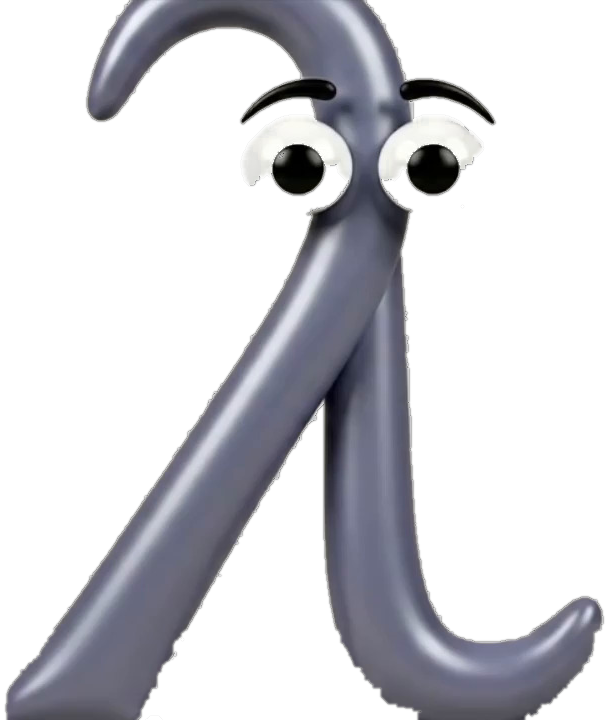
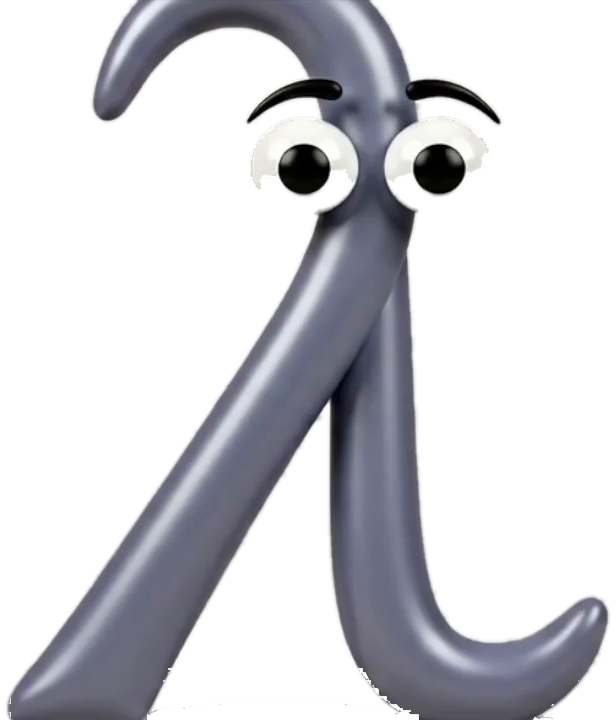
Keep the full lambda from the reference photo.
Version 0.1.5 uses the camera-resolution cutout, with only the beige wall removed, and clears the page to Basecamp's content color.

diff --git a/assistant/Main.qml b/assistant/Main.qml
@@ -3,12 +3,9 @@ import QtQuick.Controls 2.15
 import QtQuick.Layouts 1.15
 import QtQuick.Window 2.15
 
-// The photo is the character. Nothing is drawn behind it.
-// This view is a QQuickWidget inside the Basecamp dock, not a cocoa window.
-// FramelessWindowHint + NoDropShadowWindowHint + a clear color is what makes a
-// real NSWindow translucent. On this widget a clear color composites as black
-// (0.1.2) and Qt.Tool hid the child window. A solid clear is the full page, so
-// the page matches the shell (#171717) and the root item is not filled.
+// The photo is the character, at the camera's resolution. Nothing is drawn
+// behind it. A clear color on this QQuickWidget paints black, so the window
+// clear is Basecamp's content color and the root item is not filled.
 Item {
     id: root
     anchors.fill: parent
@@ -26,10 +23,16 @@ Item {
 
     function matchShell() {
         var host = root.Window.window
-        if (!host)
-            return
-        // Opaque shell color. A clear color on this widget is a black page.
-        host.color = "#171717"
+        if (host)
+            host.color = "#171717"
+    }
+
+    // Keep the clear on the shell color. Do not put a rectangle behind the photo.
+    Binding {
+        target: root.Window.window
+        property: "color"
+        value: "#171717"
+        when: root.Window.window !== null
     }
 
     function place() {
@@ -69,8 +72,8 @@ Item {
 
             Item {
                 id: faceBox
-                width: 168
-                height: 214
+                width: 326
+                height: 388
                 property real hop: 0
 
                 SequentialAnimation on hop {
@@ -94,8 +97,8 @@ Item {
                     anchors.horizontalCenter: parent.horizontalCenter
                     anchors.bottom: parent.bottom
                     anchors.bottomMargin: faceBox.hop
-                    width: 168
-                    height: 198
+                    width: 326
+                    height: 380
                     source: "lambda.png"
                     fillMode: Image.PreserveAspectFit
                     smooth: true

diff --git a/preview/public/index.html b/preview/public/index.html
@@ -109,7 +109,7 @@
       animation: bob 2.8s ease-in-out infinite;
     }
     .face.dragging { cursor: grabbing; animation: none; }
-    .face img { display: block; width: 168px; height: auto; }
+    .face img { display: block; width: 280px; height: auto; }
     .face:focus-visible, .run:focus-visible, aside button:focus-visible, textarea:focus-visible {
       outline: 2px solid #6d6788;
       outline-offset: 2px;
@@ -127,7 +127,7 @@
       .mark { margin: 0 8px 0 4px; }
       main { padding: 16px 16px 230px; }
       .assistant { right: 8px; bottom: 6px; }
-      .face img { width: 104px; }
+      .face img { width: 168px; }
       .bubble { width: min(210px, calc(100vw - 128px)); margin-bottom: 10px; }
     }
   </style>

diff --git a/README.md b/README.md
@@ -36,16 +36,16 @@ Keys and config stay in `data/logos-node` (gitignored). The script does not prin
 
 Inside Basecamp, `assistant/Main.qml` calls the same three methods on `blockchain_module` through `logos.callModule`. Package it with Nix from `assistant/` (`nix build`, module builder 0.3.0). That build is not run here.
 
-The published package is `corner_assistant` 0.1.4. It is QML only, so `main` is empty and the same files are in the portable `linux-amd64` and `darwin-arm64` variants. There is no native plugin. Install it in Basecamp from:
+The published package is `corner_assistant` 0.1.5. It is QML only, so `main` is empty and the same files are in the portable `linux-amd64` and `darwin-arm64` variants. There is no native plugin. Install it in Basecamp from:
 
 https://github.com/uNexpectedR/loggy/releases/download/corner_assistant-v0.1.0/logos-repo.json
 
-That catalogue lists 0.1.4. The package file is on the `corner_assistant-v0.1.4` release. Refresh the repository, then install Corner assistant 0.1.4.
+That catalogue lists 0.1.5. The package file is on the `corner_assistant-v0.1.5` release. Refresh the repository, then install Corner assistant 0.1.5.
 
 ## Real and stubbed
 
 Real: the `ui_qml` module, the `logos.callModule` methods, and the preview's `logosctl` / `blockchain_module` 0.3.2 run.
 
-Stubbed: the browser shell is not the Basecamp app. The character is the reference photo with the beige wall removed, not a drawing and not a 3D view. It bobs a few pixels. In Basecamp it is drawn in the content area. Drag it; the place lasts until the module is closed. Only the character and the bubble take clicks.
+Stubbed: the browser shell is not the Basecamp app. The character is the reference photo at its original resolution, with only the beige wall removed. It bobs a few pixels. In Basecamp it is drawn in the content area. Drag it; the place lasts until the module is closed. Only the character and the bubble take clicks.
 
 A real cocoa window is translucent with `FramelessWindowHint`, `NoDropShadowWindowHint`, and a clear color. This module is a `QQuickWidget` in the dock. Clearing that widget paints black, which is what 0.1.2 did, and `Qt.Tool` kept the child window offscreen. The root item is not filled. The page uses Basecamp's content color (`#171717`) so it is not a white page, and the photo has no backdrop. The preview is where the rest of the window stays usable.
